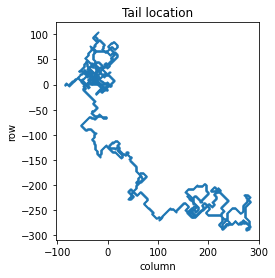
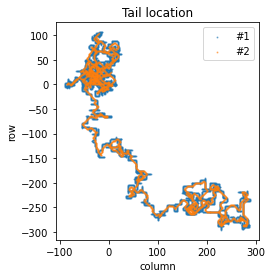
Day 9, visualisation

diff --git a/09/day09.py b/09/day09.py
@@ -35,23 +35,23 @@ def follow(head, tail):
 head = (0, 0)
 tail = (0, 0)
 
-tail_history = set()
-tail_history.add(tail)
+tail_history_1 = set()
+tail_history_1.add(tail)
 
 for move in data:
     for _ in range(move[1]):
         d = directions[move[0]]
         head = (head[0] + d[0], head[1] + d[1])
         tail = follow(head, tail)
-        tail_history.add(tail)
+        tail_history_1.add(tail)
         
-print(len(tail_history))
+print(len(tail_history_1))
 
 # part 2
 rope = [(0, 0)] * 10
 
-tail_history = set()
-tail_history.add(rope[-1])
+tail_history_2 = set()
+tail_history_2.add(rope[-1])
 
 for move in data:
     for _ in range(move[1]):
@@ -59,22 +59,28 @@ for move in data:
         rope[0] = (rope[0][0] + d[0], rope[0][1] + d[1])        
         for i in range(1, len(rope)):
             rope[i] = follow(rope[i - 1], rope[i])
-        tail_history.add(rope[-1])
+        tail_history_2.add(rope[-1])
             
-print(len(tail_history))
+print(len(tail_history_2))
 
 # visualisation
 
-tail = sorted(tail_history)
-tail_r = [t[0] for t in tail]
-tail_c = [t[1] for t in tail]
+tail1 = sorted(tail_history_1)
+tail1_r = [t[0] for t in tail1]
+tail1_c = [t[1] for t in tail1]
+
+tail2 = sorted(tail_history_2)
+tail2_r = [t[0] for t in tail2]
+tail2_c = [t[1] for t in tail2]
 
 fig, ax = plt.subplots()
-ax.scatter(tail_c, tail_r, s=1)
+ax.scatter(tail1_c, tail1_r, s=1, label='#1', alpha = 0.5)
+ax.scatter(tail2_c, tail2_r, s=1, label='#2', alpha = 0.5)
 ax.set_xlabel('column')
 ax.set_ylabel('row')
 ax.set_aspect('equal')
 ax.set_title('Tail location')
+ax.legend()
 plt.savefig('tail.png', bbox_inches='tight')
 plt.show()
 plt.close()
